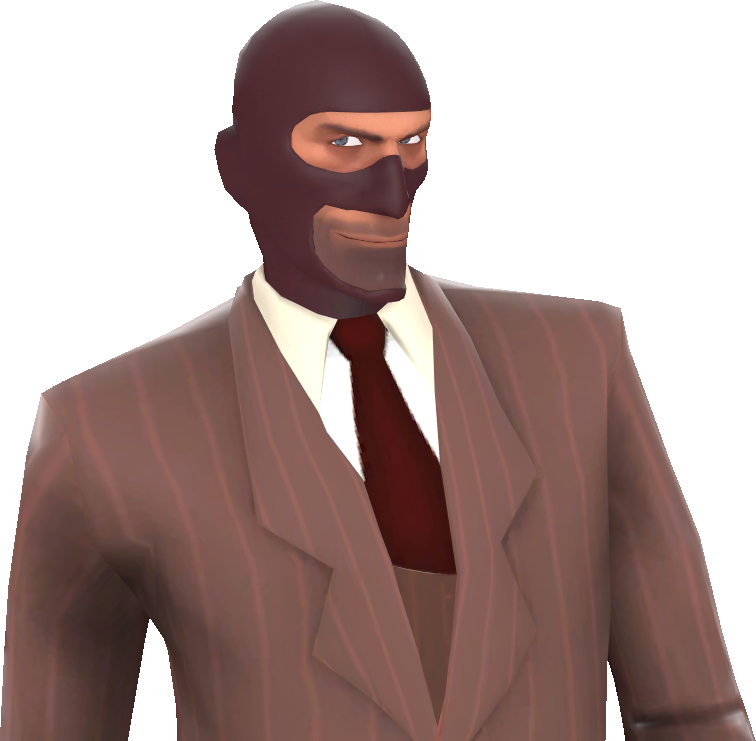
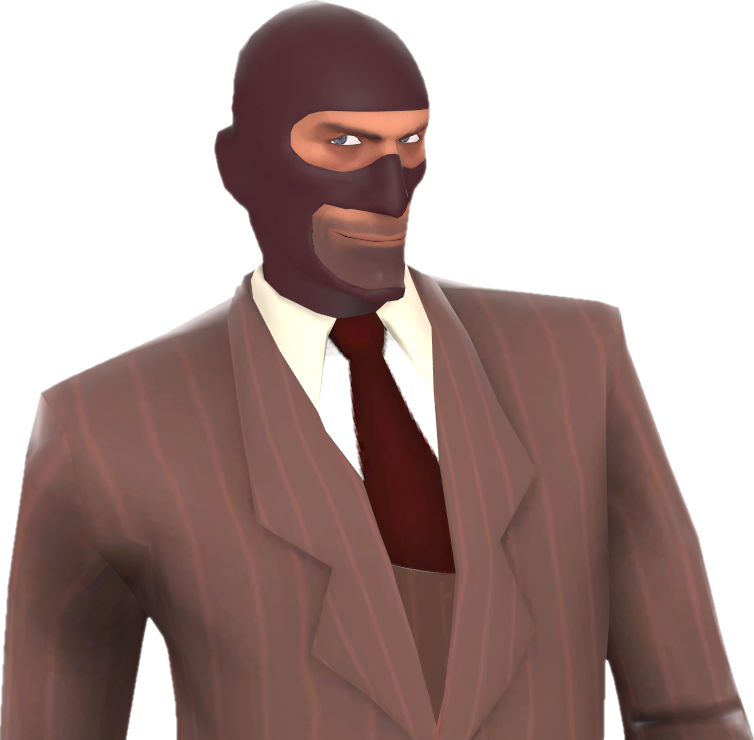
v2.1

diff --git a/HLMV_Transparent.py b/HLMV_Transparent.py
@@ -1,5 +1,5 @@
 try:
-    import cv2
+    from cv2 import *
 except:
     print("Fatal Error: CV2 is not installed. Please refer to README.md for dependencies.")
     print("Press enter to close...")
@@ -33,13 +33,21 @@ except:
     print("Press enter to close...")
     a = input()
     sys.exit(0)
+try:
+    import skimage.exposure
+except:
+    print("Fatal Error: Skimage is not installed. Please refer to README.md for dependencies.")
+    print("Press enter to close...")
+    a = input()
+    sys.exit(0)
 import os
 import time
 import sys
-from PIL import Image, ImageDraw, ImageFont, ImageChops
+import numpy as np
+from PIL import Image, ImageDraw, ImageFont, ImageChops, ImageFilter
 config = []
 print("Starting...")
-print("Version 2.0")
+print("Version 2.1")
 print("- Made by Lexzach -")
 print("Loading config.txt...")
 
@@ -56,7 +64,7 @@ for x in config:
     config[config.index(x)] = x.replace("\n","")
 pairs = 0
 count2=0
-#pixelLenience = float(str(config[9]).replace("pixelLenience=", ""))
+edgeSmoothing = float(str(config[9]).replace("edgeSmoothing=", ""))
 
 if config[2] == "autoScreenshot=true":
     print("")
@@ -170,7 +178,6 @@ while count2 != pairs:
         else:
             newData.append(item)
             prevData = item
-
     differ.putdata(newData)
     print("Opening and converting...")
     differ.save('./Rendering Folder/transparent' + str(count2) +'.png')
@@ -201,6 +208,16 @@ while count2 != pairs:
     differ.putdata(newData)
     print("./Rendering Folder/Saving finished"+ str(count2) +".png")
     differ.save("./Rendering Folder/finished" + str(count2) +".png")
+    if edgeSmoothing > 0:
+        print("Smoothing edges...")
+        img = cv2.imread("./Rendering Folder/finished" + str(count2) +".png", cv2.IMREAD_UNCHANGED)
+        bgr = img[:, :, 0:3]
+        a = img[:, :, 3]
+        ab = cv2.GaussianBlur(a, (0,0), sigmaX=edgeSmoothing, sigmaY=edgeSmoothing, borderType = cv2.BORDER_DEFAULT)
+        aa = skimage.exposure.rescale_intensity(ab, in_range=(127.5,255), out_range=(0,255))
+        out = img.copy()
+        out[:, :, 3] = aa
+        cv2.imwrite("./Rendering Folder/finished" + str(count2) +".png", out)
 
     if config[0] == "deleteTempFiles=true":
         print("Deleting temp files...")
@@ -220,7 +237,6 @@ if config[1] == "autoCrop=true":
     for filename in glob.glob('./Rendering Folder/*.png'):
         if str(filename[19]) == "f":
             im = Image.open(filename)
-            #im = im.resize((im.size[0]*1, im.size[1]*1), Image.ANTIALIAS)
             print("Cropping "+filename)
             im = trim(im)
             im.save(filename[:-4] + "_cropped.png")

diff --git a/README.md b/README.md
@@ -1,4 +1,4 @@
-Version 2.0
+Version 2.1
 
 # HLMV Transparent
 This is a program specifically designed for the Team Fortress 2 Wiki. It allows perfect transparent images to be easily and automatically created at the push of a button using the out of the box Half-Life Model Viewer program.
@@ -7,11 +7,12 @@ This is a program specifically designed for the Team Fortress 2 Wiki. It allows 
 
 # Dependencies:
 
-- Python 3.8.6 `www.python.org/downloads/release/python-386/`
+- Python 3.8.6+ `www.python.org/downloads/release/python-386/`
 - OpenCV `pip install opencv-python`
 - Pillow `pip install pillow`
 - Pyautogui `pip install PyAutoGUI`
 - Keyboard `pip install keyboard`
+- SciKit `pip install scikit-image`
 
 Alternatively, you can run the command `pip install -r requirements.txt` to automatically install the dependencies.
 
@@ -75,6 +76,8 @@ As an example, if I wanted to do 2 white images and 2 black images, I would do t
 - `autoScreenshot` - Assuming you have a 1920x1080 monitor, and HLMV is maximized (press the square on Windows), the program will automatically move your mouse around to take a screenshot far faster than a human could, after taking the amount of screenshots that the user wants to take, the program will then automatically render them. **REMEMBER: THIS SETTING WILL CONTROL YOUR MOUSE, I AM NOT RESPONSIBLE FOR ANY DAMAGES THAT COULD BE CAUSED BY THIS!!! YOU HAVE BEEN WARNED!**
 
 - `screenshotSizes` - Adjust the size of the screenshot area. This is already coordinated for a 1920x1080 monitor. The first two numbers are the top left corner of the screenshot, and the last two numbers are the bottom left corner of the screenshot.
+
+-`edgeSmoothing` - Adjust how much the program smooths edges, `0` is off. The default is `1.3`.
 
 # Like this program?
 Do you like this program? If so I would really appreciate it if you would stop by and post something to my talk page on the Team Fortress 2 Wikipedia!
